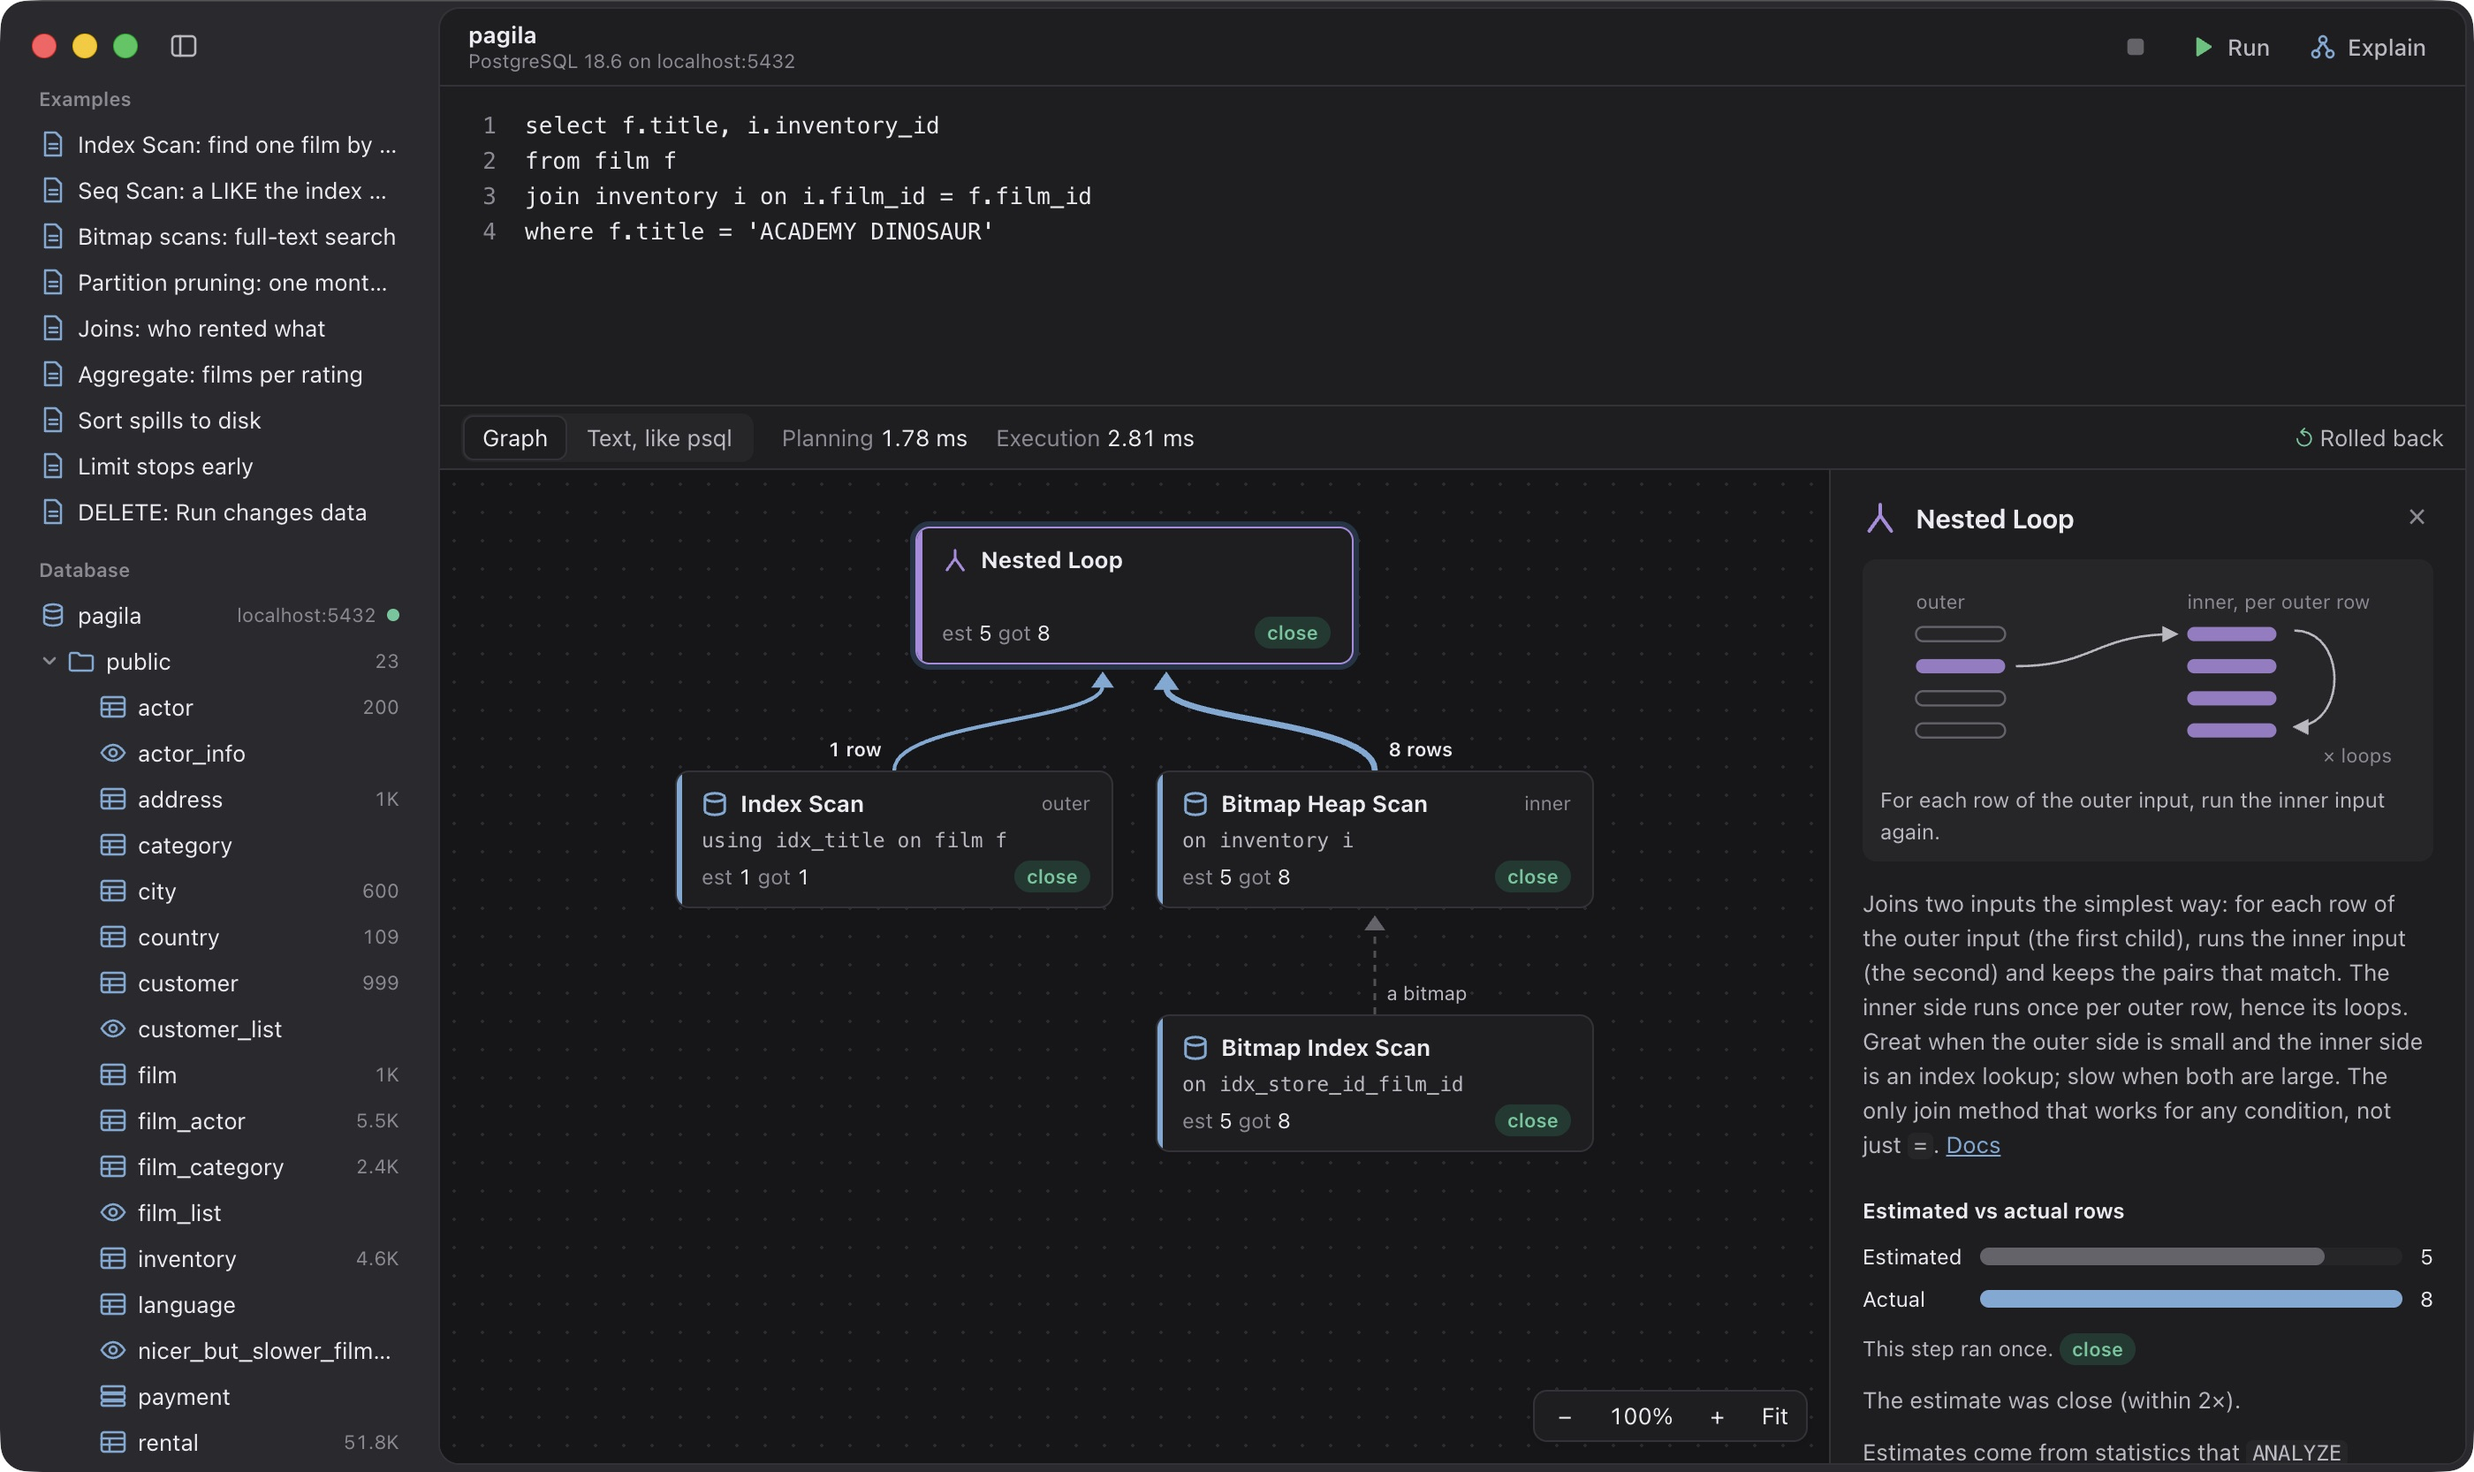
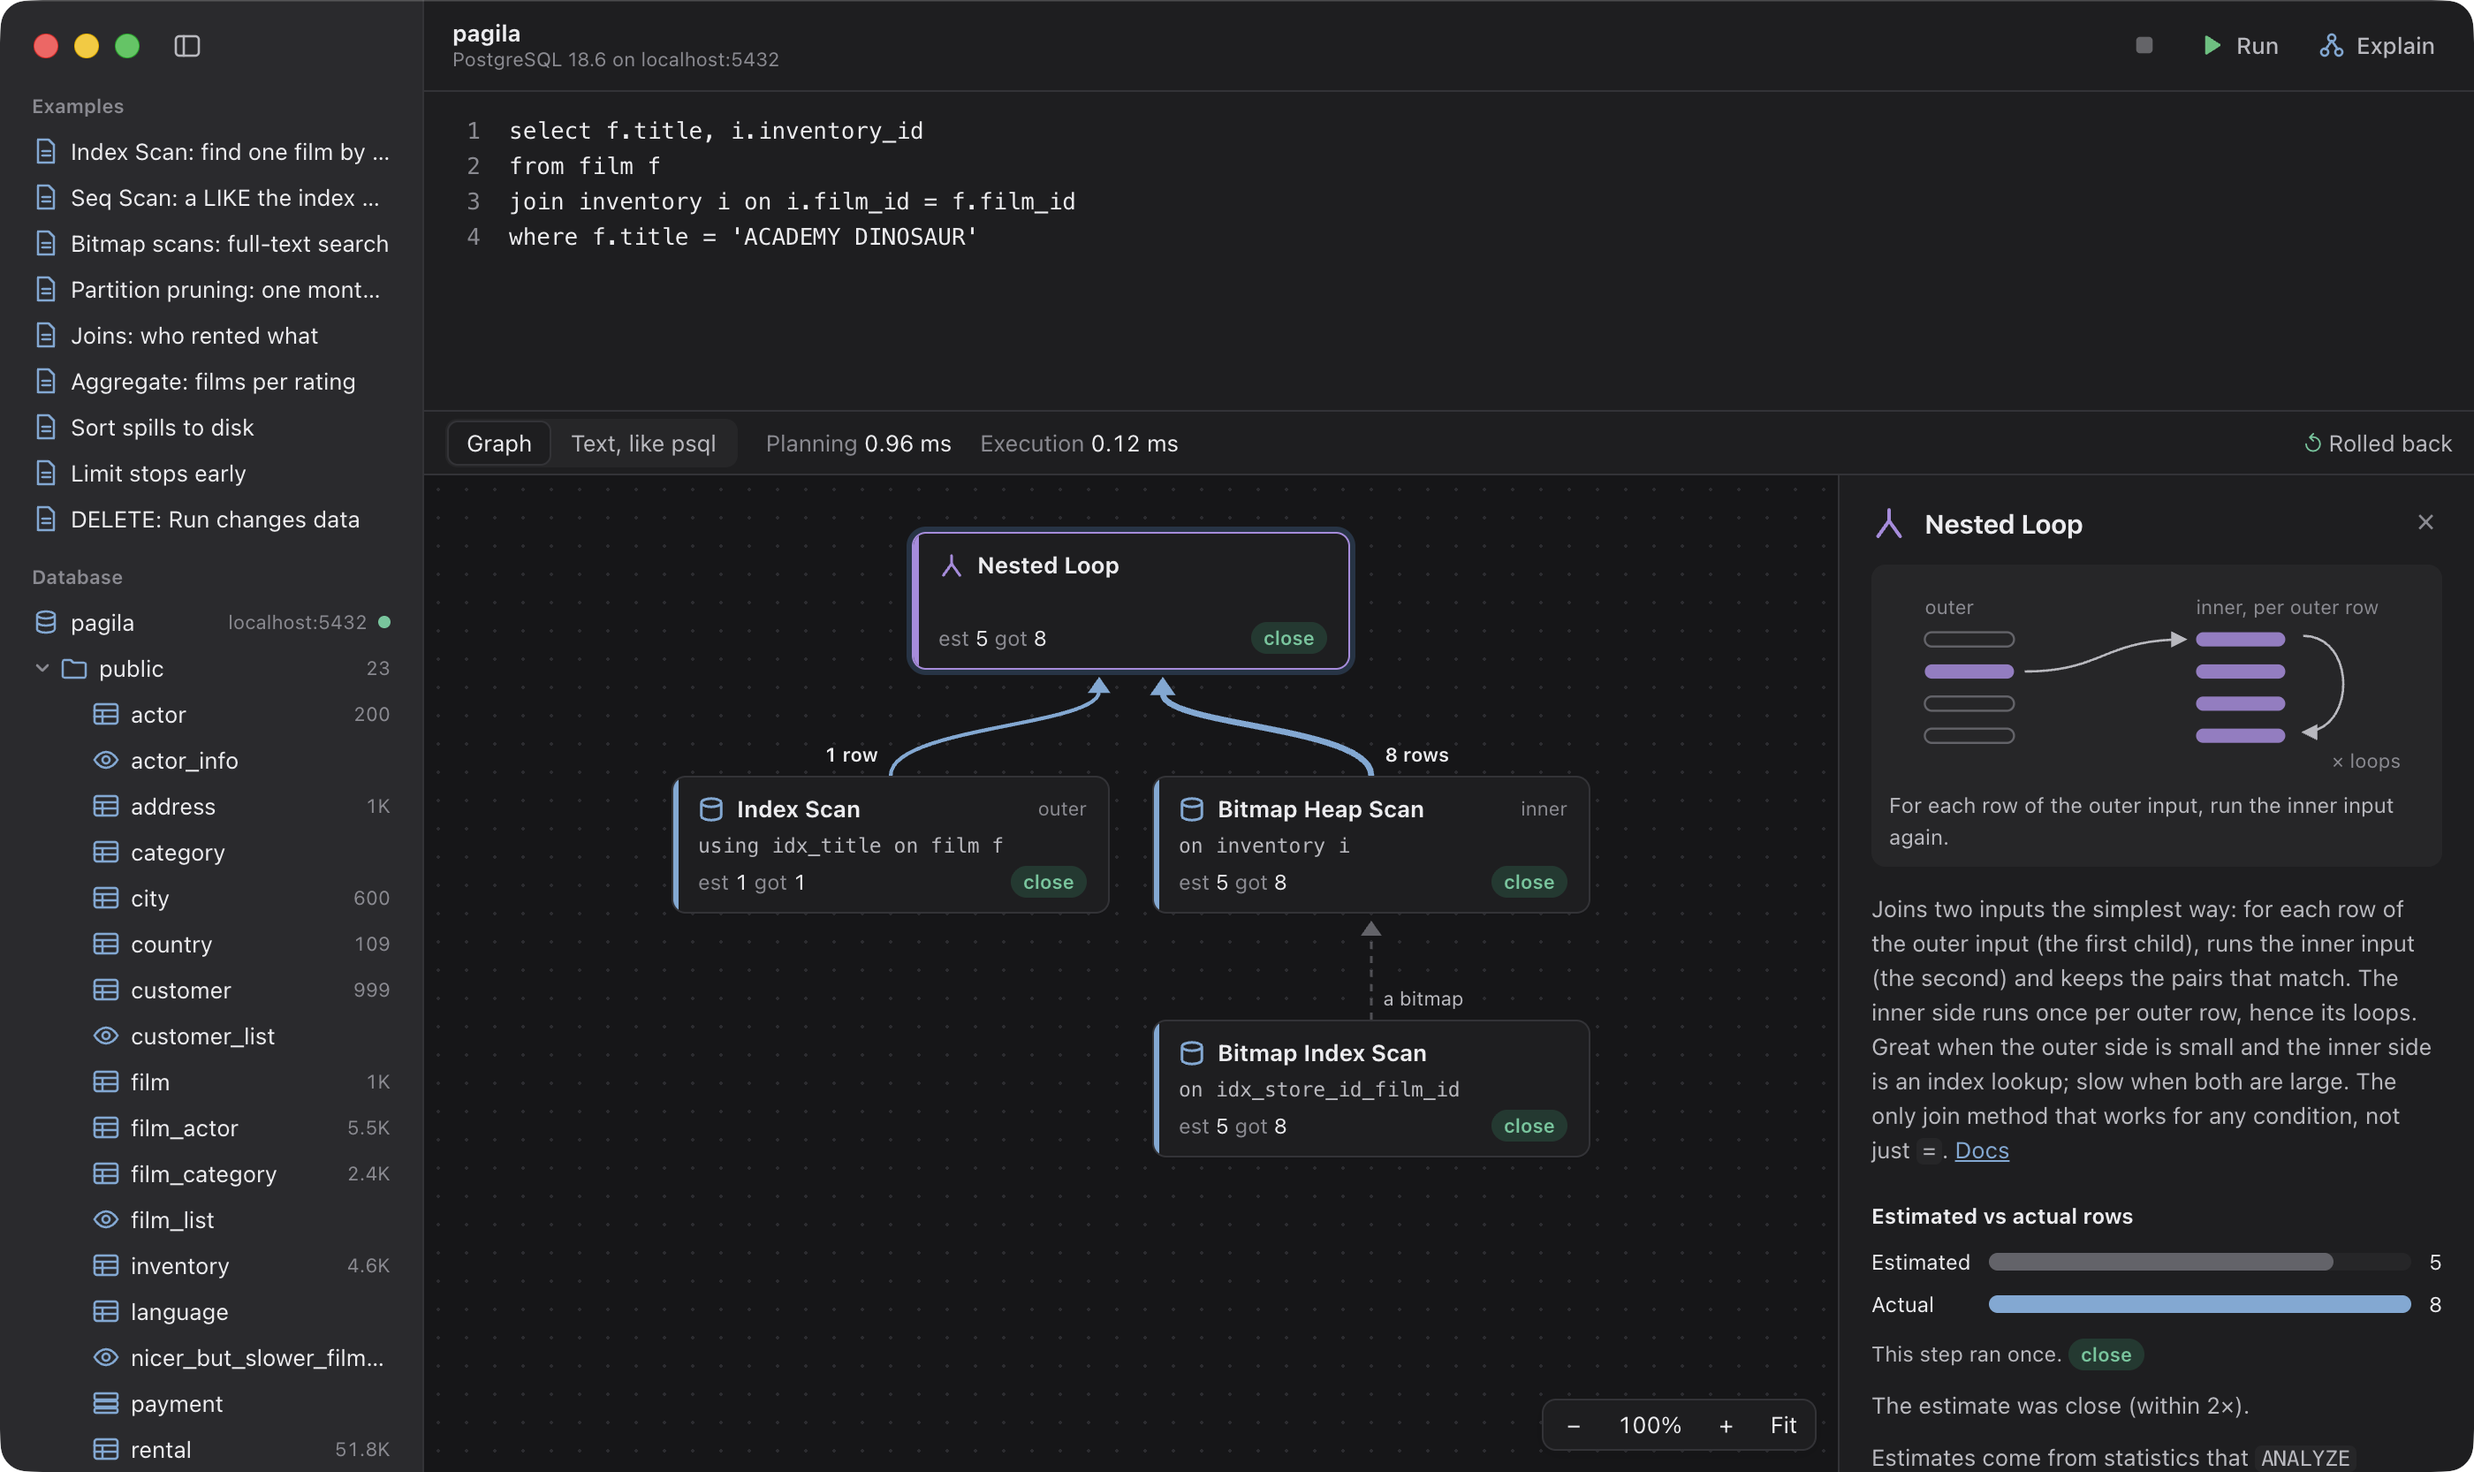
docs: retake README screenshots with transparent corners
Taken with `pnpm screenshots`: macOS's screencapture of the real window,
so the corners are transparent and the native traffic lights show. The
old files were JPEGs named .png, whose white corners no wrapper could hide.
The script now sets the page's theme too (Playwright pins it to light) and
checks the window is focused, or the traffic lights come out grey.

diff --git a/scripts/screenshots.ts b/scripts/screenshots.ts
@@ -37,13 +37,22 @@ try {
     ["light", "docs/screenshot.png"],
     ["dark", "docs/screenshot-dark.png"],
   ] as const) {
+    // Playwright pins the page to the light theme unless told otherwise; the
+    // native theme is for the window's own frame.
+    await page.emulateMedia({ colorScheme: theme });
     // Focused, or macOS draws the traffic lights grey.
-    const id = await app.evaluate(({ app, BrowserWindow, nativeTheme }, theme) => {
-      nativeTheme.themeSource = theme;
-      app.focus({ steal: true });
-      return BrowserWindow.getAllWindows()[0]!.getMediaSourceId();
-    }, theme);
-    await page.waitForTimeout(500);
+    const { id, focused } = await app.evaluate(
+      async ({ app, BrowserWindow, nativeTheme }, theme) => {
+        const window = BrowserWindow.getAllWindows()[0]!;
+        nativeTheme.themeSource = theme;
+        app.focus({ steal: true });
+        window.focus();
+        await new Promise((resolve) => setTimeout(resolve, 800));
+        return { id: window.getMediaSourceId(), focused: window.isFocused() };
+      },
+      theme,
+    );
+    if (!focused) throw new Error("The window did not come to the front; try again.");
     // The media source id is "window:<CGWindowID>:0". -o leaves out the shadow.
     execFileSync("screencapture", ["-x", "-o", `-l${id.split(":")[1]}`, file]);
     console.log(`Wrote ${file}`);
